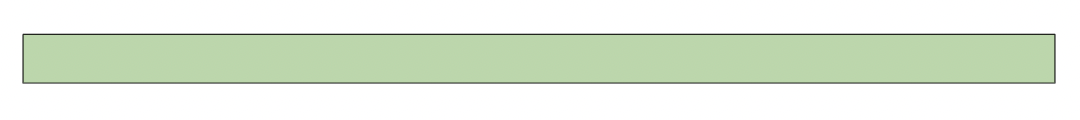
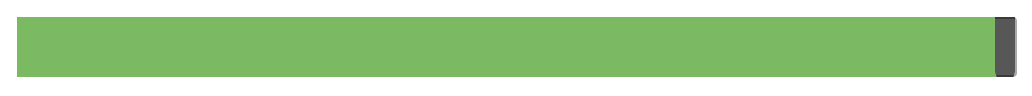
update with understanding check, bar anchor, illustrations

diff --git a/index.html b/index.html
@@ -7,6 +7,7 @@
     <script src="https://unpkg.com/@jspsych/plugin-html-keyboard-response@2.0.0"></script>
     <script src="https://unpkg.com/@jspsych/plugin-html-slider-response@2.0.0"></script>
     <script src="https://unpkg.com/@jspsych/plugin-preload@2.0.0"></script>
+    <script src="jspsych/plugin-html-button-response.js"></script>
     <link href="https://unpkg.com/jspsych@8.0.3/css/jspsych.css" rel="stylesheet" type="text/css" />
     <link rel="stylesheet" href="slider.css">
   </head>
@@ -21,19 +22,69 @@ var timeline = [];
 /* preload images */
 var preload = {
       type: jsPsychPreload,
-      images: ['img/full_bar.png']
+      images: ['img/full_bar.png','img/empty_bar.png','img/half_bar.png','img/jump.png','img/sit.png']
     };
     timeline.push(preload);
+
+var intro = {
+  type: jsPsychHtmlButtonResponse,
+  stimulus: `<div>
+        <p>This is an energy bar. When someone is not tired at all, it looks like this: <p>
+        </div>
+        <img src="img/full_bar.png" width="400" height="50" ></img>
+        <p>And When someone is really tired, it looks like this:</p>
+      </div>
+        <img src="img/empty_bar.png" width="400" height="50" ></img>
+        <p> Some things make us tired. Other things make us less tired. Let’s think about them together! <p>
+        </div>`,
+  choices: ['Continue']
+}
+timeline.push(intro);
+
+var check = {
+  type: jsPsychHtmlButtonResponse,
+  stimulus: '<p>When someone is really really tired, how would their energy bar most likely look like?</p>',
+    choices: ['img/empty_bar.png', 'img/half_bar.png', 'img/full_bar.png'],
+    /*button_html: '<img src="%choice%" style="width:100px; padding: 20px;"></img>'*/
+    button_html: function(choice) {
+    return '<button class="jspsych-btn"><img src="' + choice + '" alt="choice" style="width:300px; padding: 20px;"></button>';
+  },
+  on_finish: function(data) {
+    console.log('Selected button:', data.button_pressed);
+  }
+};
+timeline.push(check);
+
+var check2 = {
+  type: jsPsychHtmlButtonResponse,
+  stimulus: '<p>When someone is not tired at all, how would their energy bar most likely look like?</p>',
+    choices: ['img/empty_bar.png', 'img/half_bar.png', 'img/full_bar.png'],
+    /*button_html: '<img src="%choice%" style="width:100px; padding: 20px;"></img>'*/
+    button_html: function(choice) {
+    return '<button class="jspsych-btn"><img src="' + choice + '" alt="choice" style="width:300px; padding: 20px;"></button>';
+  },
+  on_finish: function(data) {
+    console.log('Selected button:', data.button_pressed);
+  }
+};
+timeline.push(check2);
 
 var s1t1 = {
           type: jsPsychHtmlSliderResponse,
     stimulus: `<div>
-        <p>This is how Adam’s energy looks like now.</p>
+        <p>This is what Adam’s energy bar looks like now.</p>
         </div>
         <img src="img/half_bar.png" width="400" height="50" ></img>
-        <p>Adam goes off to run a race for an hour. How do you think his energy would change?</p>
-        </div>`,
+        <p>Adam then goes off to run a race for an hour. How do you think his energy would change after running the race?</p>
+        <img src="img/boy_running.png" width="200" height="200"></img>`,
     require_movement: true,
+    prompt: `
+        <div style="width:400px; float: left;">
+          <img src="img/sit.png" width="50" height="50"></img>
+        </div>
+        <div style="width:400px; float: right;">
+          <img src="img/jump.png" width="50" height="50"></img>
+        </div>`,
     slider_start:50,
     slider_width: 500,
     labels: ['Really tired','Not tired at all'],
@@ -73,10 +124,10 @@ var s1t3 = {
 var s2t1 = {
           type: jsPsychHtmlSliderResponse,
     stimulus: `<div>
-        <p>Sally has been sitting quietly and drawing all morning. Her energy now looks like this.</p>
+        <p>Cathy has been sitting quietly and drawing all morning. Her energy now looks like this.</p>
         </div>
         <img src="img/full_bar.png" width="400" height="50" ></img>
-        <p>She is going to take a swimming lesson in the afternoon. How <b>hard</b> do you think that would be for Sally?</p>
+        <p>She is going to take a swimming lesson in the afternoon. How <b>hard</b> do you think that would be for Cathy?</p>
         </div>`,
     require_movement: true,
     slider_start:0,
@@ -88,10 +139,10 @@ var s2t1 = {
 var s2t2 = {
           type: jsPsychHtmlSliderResponse,
     stimulus: `<div>
-        <p>Sally has been practicing math problems all morning and her energy now looks like this.</p>
+        <p>Cathy has been practicing math problems all morning and her energy now looks like this.</p>
         </div>
         <img src="img/half_bar.png" width="400" height="50" ></img>
-        <p>She is going to take a swimming lesson in the afternoon. How <b>hard</b> do you think that would be for Sally?</p>
+        <p>She is going to take a swimming lesson in the afternoon. How <b>hard</b> do you think that would be for Cathy?</p>
         </div>`,
     require_movement: true,
     slider_start:0,
@@ -103,7 +154,7 @@ var s2t2 = {
 var s3t1 = {
           type: jsPsychHtmlSliderResponse,
     stimulus: `<div style="text-align: center; width:800px;">
-        <p>  Sally has a race to run this afternoon. Sally thought, "Wow, that is going to be so hard for me!". What do you think her energy bar looks like right now?</p>
+        <p>  Cathy has a race to run this afternoon. Cathy thought, "Wow, that is going to be so hard for me!". What do you think her energy bar looks like right now?</p>
         </div>`,
     require_movement: true,
     slider_start:0,
@@ -116,7 +167,8 @@ var s3t1 = {
 var s3t2 = {
           type: jsPsychHtmlSliderResponse,
     stimulus: `<div style="text-align: center; width:800px;">
-        <p class="centered" >Sally needs to practice math problems this afternoon. Sally thought, "Wow, that is going to be so easy for me!". What do you think her energy bar looks like right now?</p>
+        <p class="centered" >Cathy needs to practice math problems this afternoon. Cathy thought, "Wow, that is going to be so easy for me!".</p>
+        <p class="centered" >What do you think her energy bar looks like right now?</p>
         </div>`,
     require_movement: true,
     slider_start:0,
